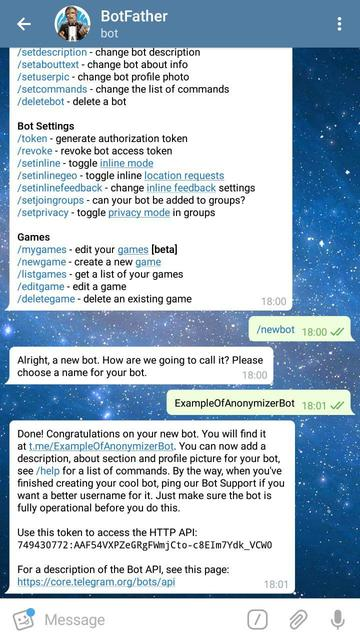
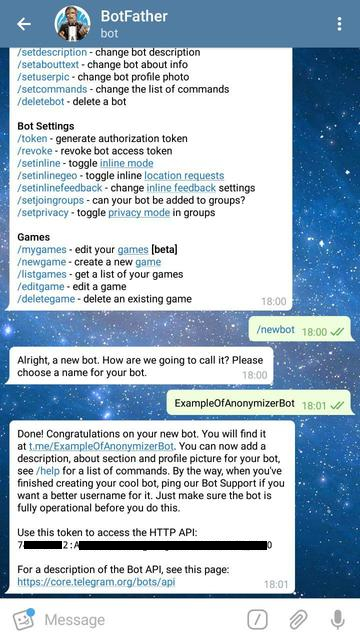
Edit.

Changed region(s): [[0.2139, 0.8438, 0.7639, 0.875], [0.0611, 0.8438, 0.1833, 0.875]]

diff --git a/readme.md b/readme.md
@@ -110,7 +110,7 @@
 Для этого нам необходимо обратиться за помощью к боту BotFather:
 * найдем бота в поиске;
 
-![botfather/welcome](images/botfather/welcome.jpg)     </details>
+![botfather/welcome](images/botfather/welcome.jpg)
 * выполним команду `/start`;
 * выполним команду `/newbot`;
 
@@ -685,7 +685,7 @@ public final class AnonymizerBot extends TelegramLongPollingCommandBot {
     // имя бота, которое мы указали при создании аккаунта у BotFather
     // и токен, который получили в результате 
     private static final String BOT_NAME = "AnonymizerBotExample";
-    private static final String BOT_TOKEN = "749430772:AAF54VXPZeGRgFWmjCto-c8EIm7Ydk_VCW0";
+    private static final String BOT_TOKEN = "7xxxxxxx2:Axxxxxxxxxxxxxxxxxxxxxxxxxxxxxxxxx0";
 
     private final Anonymouses mAnonymouses;
 
@@ -778,7 +778,7 @@ public final class AnonymizerBot extends TelegramLongPollingCommandBot {
                 });
     }
 
-    // проверка корректности сообщения пользователя
+    // несколько проверок, чтобы можно былдо отправлять сообщения другим пользователям
     private boolean canSendMessage(User user, Message msg) {
 
         SendMessage answer = new SendMessage();
@@ -825,14 +825,13 @@ public final class AnonymizerBot extends TelegramLongPollingCommandBot {
             LOG.error(LogTemplate.MESSAGE_EXCEPTION, user.getId(), e);
         }
     }
-}
-
+} 
 ```
 </details>
 
 </br> 
 
-Наконец, запуск нашего бота:
+Наконец, запуск бота:
 
 <details>
     <summary>BotInitializer.java</summary>
@@ -853,7 +852,7 @@ public final class BotInitializer {
 
     private static final Logger LOG = LogManager.getLogger(BotInitializer.class);
 
-    // настройки прокси
+    // адрес прокси
     private final static String PROXY_HOST = "xxx.xxx.xxx.xxx";
     private final static int PROXY_PORT = 9999;
 
@@ -866,9 +865,9 @@ public final class BotInitializer {
 
             TelegramBotsApi botsApi = new TelegramBotsApi();
 
+            // из настроек нужны только настройки прокси
             LOG.info("Configuring bot options...");
-            DefaultBotOptions botOptions = ApiContext.getInstance(DefaultBotOptions.class);
-
+            DefaultBotOptions botOptions = ApiContext.getInstance(DefaultBotOptions.class); 
             botOptions.setProxyHost(PROXY_HOST);
             botOptions.setProxyPort(PROXY_PORT);
             botOptions.setProxyType(DefaultBotOptions.ProxyType.SOCKS4);
@@ -888,5 +887,24 @@ public final class BotInitializer {
 
 </br>
 
+Вот и все! Бот готов к первым тестам.
+
 ## Пример использования
 
+В качестве примера рассмотрим следующий сценарий:
+1. 'A' начинает работу с ботом (`/start`);
+2. 'A' пытается отправить сообщение;
+3. 'A' пытается задать имя (`/set_name`);
+4. 'A' задает имя (`/set_name Pendalf`);
+5. 'A' посылает сообщение другим пользователям (которых нет);
+6. 'B' начинает работу с ботом (`/start`);
+7. 'B' задает имя (`/set_name Chuck Norris`);
+8. 'B' посылает сообщение другим пользователям;
+9. 'A' видит сообщение от 'B' и посылает сообщение в ответ;
+10. 'B' видит ответ от 'A' и больше ему не пишет...
+
+![bot/pendalf](images/anonymizerbot/pendalf.jpg)
+![bot/chuck_norris](images/anonymizerbot/chuck.jpg)
+
+Ну и куда же без логов:
+![bot/logs](images/anonymizerbot/bot_log.png)
